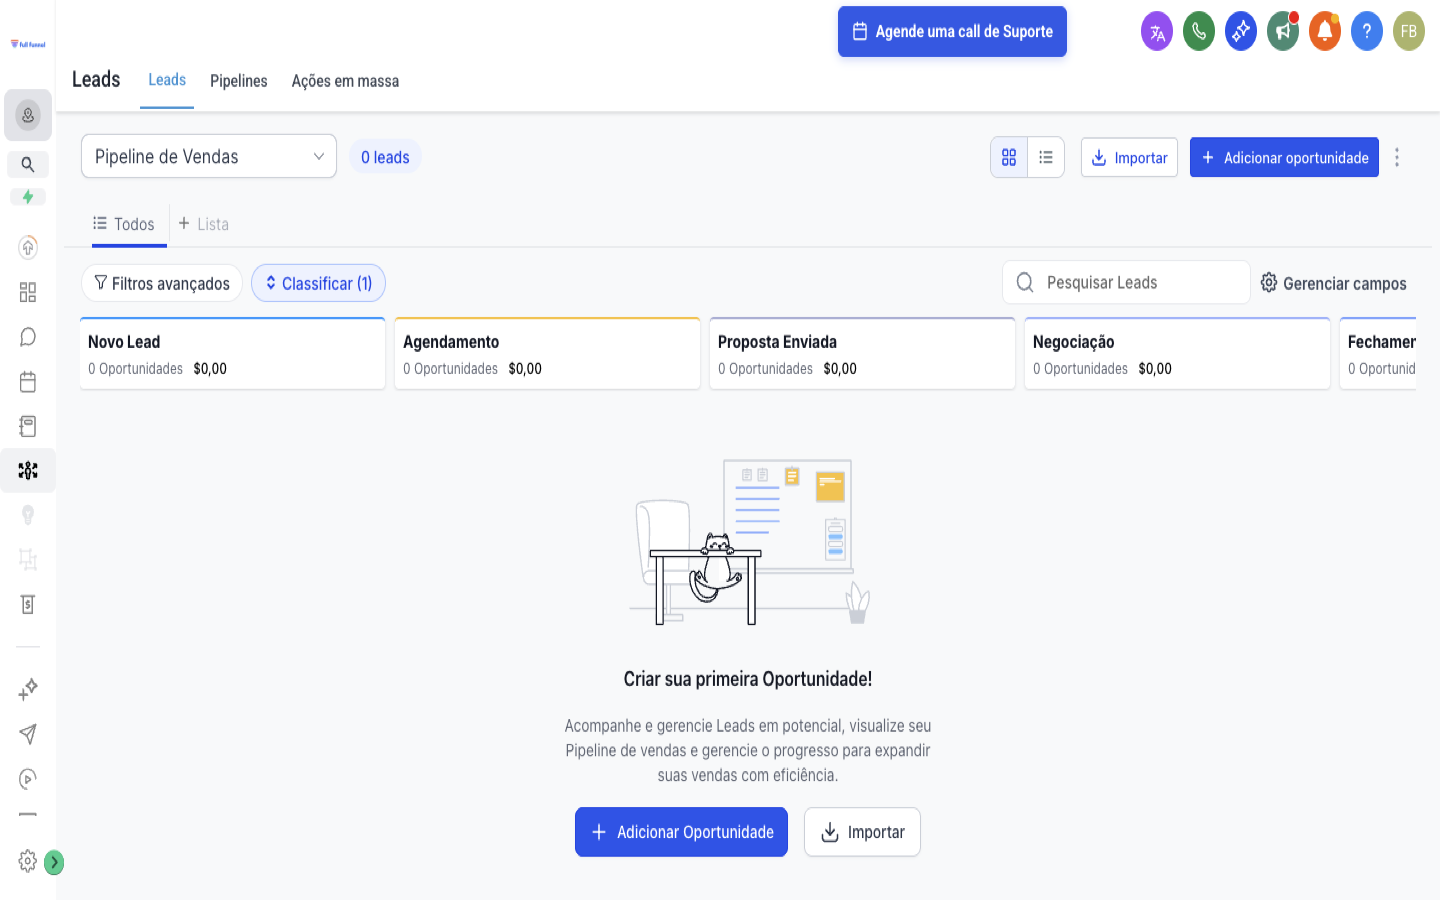
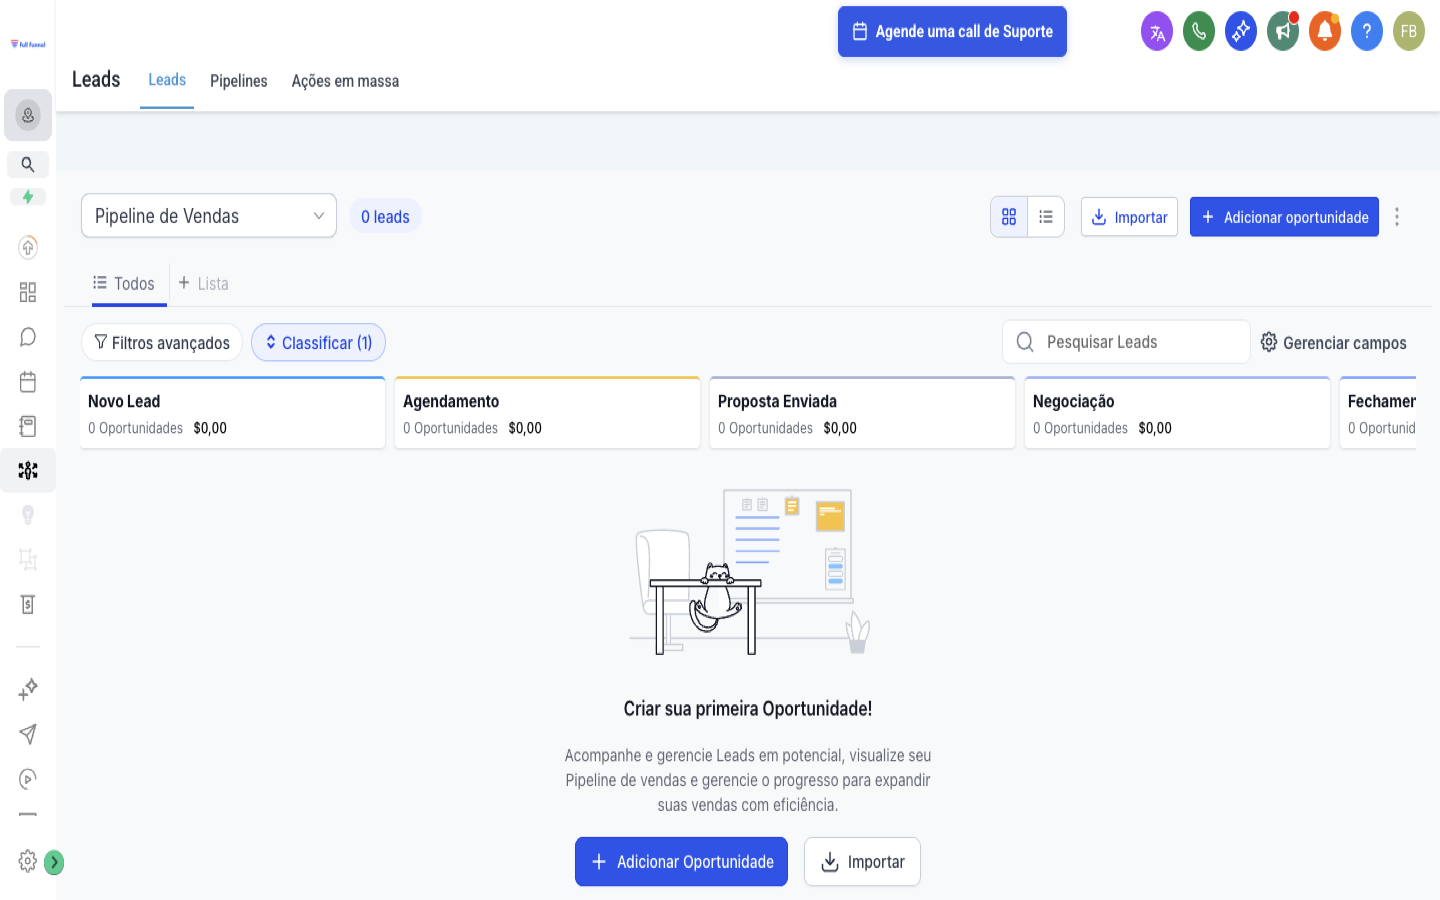
fix: coordenadas precisas para viewport 1440px + passo-08 atualizado

diff --git a/tutorials/criando-pipeline/index.html b/tutorials/criando-pipeline/index.html
@@ -233,54 +233,54 @@
 const STEPS = [
   {
     image: "passo-01.png",
-    hotspot: { x: 76.5, y: 71, w: 12, h: 3.5 },
-    tooltip: { x: 30, y: 38 },
-    line: { x1: 82, y1: 71, x2: 55, y2: 46 },
+    hotspot: { x: 76.5, y: 88.5, w: 13, h: 2.7 },
+    tooltip: { x: 25, y: 45 },
+    line: { x1: 82, y1: 88.5, x2: 50, y2: 54 },
     title: "Acesse a subconta desejada",
     text: "Na lista de Subcontas, localize a conta onde deseja criar a pipeline. Clique em 'Alternar para subconta' no canto inferior direito do card.",
     tip: "💡 Você pode usar o campo de busca para encontrar rapidamente a subconta desejada, como fizemos aqui filtrando por 'Demo'."
   },
   {
     image: "passo-02.png",
-    hotspot: { x: 0.5, y: 17, w: 6, h: 3.5 },
-    tooltip: { x: 30, y: 40 },
-    line: { x1: 6.5, y1: 19, x2: 30, y2: 45 },
+    hotspot: { x: 0.7, y: 49, w: 14, h: 4.4 },
+    tooltip: { x: 30, y: 30 },
+    line: { x1: 14.7, y1: 51, x2: 30, y2: 36 },
     title: "Clique em 'Leads' no menu lateral",
     text: "Após entrar na subconta, você verá o Dashboard. No menu lateral esquerdo, clique em 'Leads'. É nessa seção que ficam as pipelines e oportunidades.",
     tip: "💡 'Leads' é o termo que o GHL usa para oportunidades de venda. Cada lead pode ser movido entre as etapas da sua pipeline."
   },
   {
     image: "passo-03.png",
-    hotspot: { x: 18, y: 5, w: 6, h: 3 },
-    tooltip: { x: 40, y: 35 },
-    line: { x1: 21, y1: 8, x2: 40, y2: 40 },
+    hotspot: { x: 25.4, y: 7.4, w: 4.4, h: 2.6 },
+    tooltip: { x: 40, y: 30 },
+    line: { x1: 27.6, y1: 10, x2: 40, y2: 35 },
     title: "Acesse a aba 'Pipelines'",
     text: "Na página de Leads, você verá as abas: Leads, Pipelines e Ações em massa. Clique na aba 'Pipelines' para ver e gerenciar todas as suas pipelines.",
     tip: "💡 A aba 'Leads' mostra o kanban da pipeline selecionada. A aba 'Pipelines' lista todas as pipelines criadas na subconta."
   },
   {
     image: "passo-04.png",
-    hotspot: { x: 86, y: 20, w: 8.5, h: 3.5 },
-    tooltip: { x: 35, y: 35 },
-    line: { x1: 86, y1: 22, x2: 62, y2: 42 },
+    hotspot: { x: 85.5, y: 19.8, w: 10.5, h: 4.2 },
+    tooltip: { x: 30, y: 35 },
+    line: { x1: 85.5, y1: 22, x2: 58, y2: 42 },
     title: "Clique em '+ Criar Pipeline'",
     text: "No canto superior direito da página de Pipelines, clique no botão azul '+ Criar Pipeline'. Um modal será aberto para configurar sua nova pipeline.",
     tip: "💡 Você pode ter quantas pipelines quiser — por exemplo, uma para vendas, outra para suporte ao cliente, outra para recrutamento."
   },
   {
     image: "passo-05.png",
-    hotspot: { x: 39, y: 30, w: 17, h: 3.5 },
+    hotspot: { x: 27, y: 20, w: 42, h: 4 },
     tooltip: { x: 10, y: 55 },
-    line: { x1: 48, y1: 33.5, x2: 30, y2: 58 },
+    line: { x1: 48, y1: 24, x2: 30, y2: 58 },
     title: "Preencha o nome da Pipeline",
     text: "No campo 'Nome do Pipeline', digite um nome descritivo. Neste exemplo, usamos 'Pipeline de Vendas'. Abaixo, o GHL já cria 4 etapas padrão que você pode personalizar.",
     tip: "💡 Use nomes claros como 'Pipeline de Vendas', 'Funil Comercial', 'CS | Suporte' — facilita encontrar depois."
   },
   {
     image: "passo-06.png",
-    hotspot: { x: 39.5, y: 38, w: 17, h: 22 },
-    tooltip: { x: 10, y: 10 },
-    line: { x1: 48, y1: 38, x2: 30, y2: 18 },
+    hotspot: { x: 28.5, y: 32, w: 43, h: 27.5 },
+    tooltip: { x: 5, y: 5 },
+    line: { x1: 50, y1: 32, x2: 28, y2: 14 },
     title: "Configure as etapas (stages)",
     text: "Renomeie as etapas para refletir seu processo de vendas. Aqui criamos: Novo Lead → Agendamento → Proposta Enviada → Negociação → Fechamento. Use '+ Adicionar etapa' para criar mais.",
     tip: "💡 As checkboxes 'Gráfico de funil' e 'Etapa de entrega' controlam como cada estágio aparece nos relatórios do dashboard."
@@ -296,9 +296,9 @@ const STEPS = [
   },
   {
     image: "passo-08.png",
-    hotspot: { x: 7, y: 19.5, w: 45, h: 5 },
-    tooltip: { x: 25, y: 50 },
-    line: { x1: 30, y1: 24.5, x2: 40, y2: 53 },
+    hotspot: { x: 4, y: 42, w: 94, h: 6.5 },
+    tooltip: { x: 20, y: 55 },
+    line: { x1: 50, y1: 48.5, x2: 40, y2: 58 },
     title: "Sua Pipeline no Kanban! 🎉",
     text: "Volte à aba 'Leads' e selecione 'Pipeline de Vendas' no seletor. Pronto! Seu kanban visual está configurado com as 5 etapas: Novo Lead, Agendamento, Proposta Enviada, Negociação e Fechamento.",
     tip: "💡 Agora você pode adicionar oportunidades clicando em '+ Adicionar oportunidade' e arrastar os cards entre as colunas conforme o lead avança no processo."
